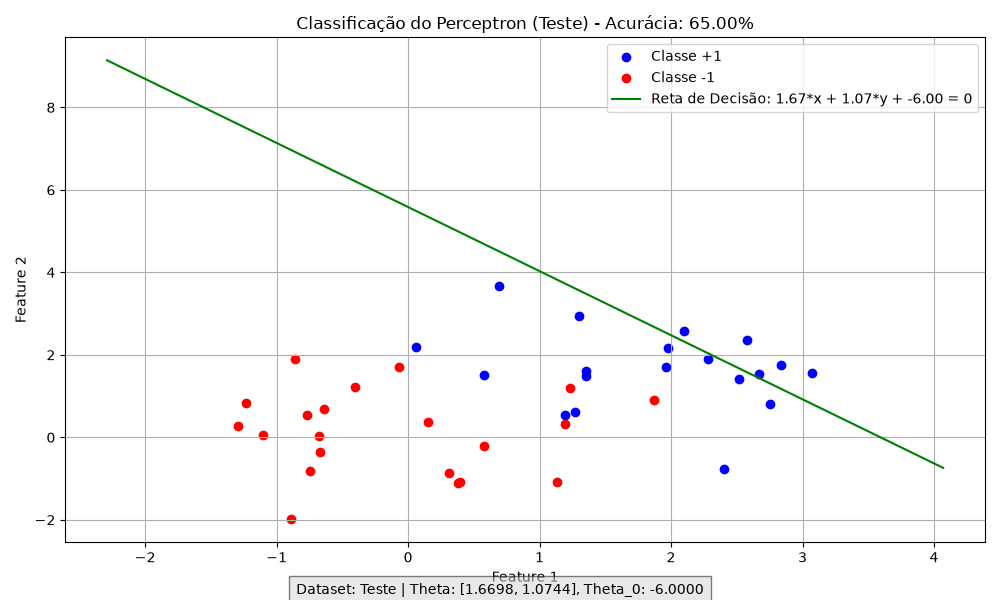
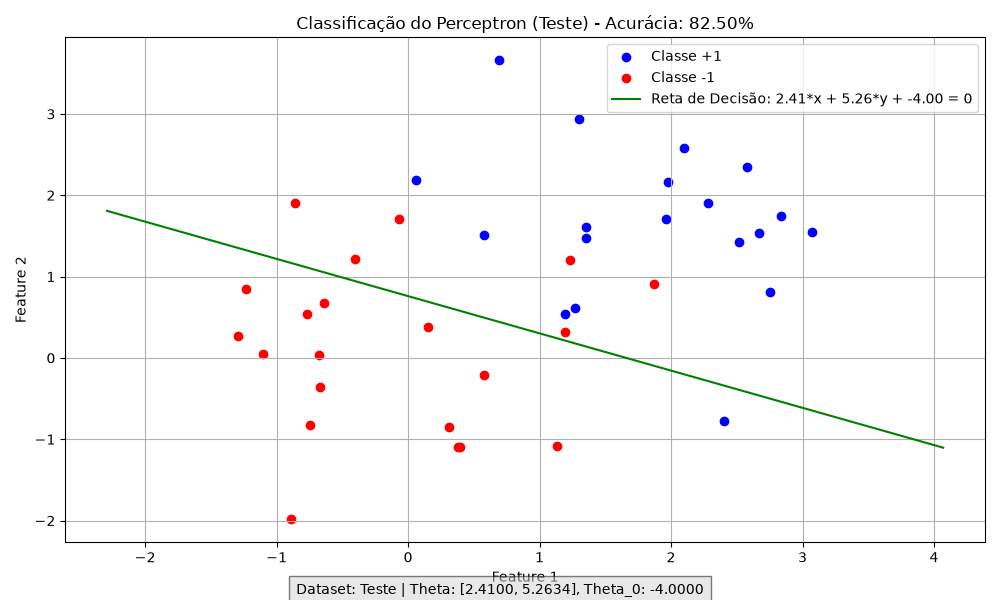
Mais alterações no SGD

diff --git a/MachineLearningCourse/aula02/Comparacao.py b/MachineLearningCourse/aula02/Comparacao.py
@@ -4,39 +4,30 @@ from visualizacao import visualizar_perceptron
 from sklearn.model_selection import train_test_split
 import os
 
-# Carrega o dataset
 dataset, features, labels = carregar_dataset_bolas(os.path.join("dataset", "bolas.csv"))
 
-# Separação entre dados de treino e dados de teste (80% treino, 20% teste)
 X_train, X_test, y_train, y_test = train_test_split(features, labels, test_size=0.2, random_state=42)
 
-# Treinamento do modelo Perceptron com dados de treino
 thetaP, theta_0P = PerceptronBase(X_train, y_train, 20)
 
-# Treinamento do modelo SGD com dados de treino
-thetaSGD, theta_0SGD = SGD(X_train, y_train, 2000000, 0.5, 0.4)
+thetaSGD, theta_0SGD = SGD(X_train, y_train, 50000000, 0.6, 0.4)
 
-# Avaliação dos modelos nos dados de treino
 acuraciaP_treino = Acuracia(thetaP, theta_0P, X_train, y_train)
 acuraciaSGD_treino = Acuracia(thetaSGD, theta_0SGD, X_train, y_train)
 
-# Avaliação dos modelos nos dados de teste
 acuraciaP_teste = Acuracia(thetaP, theta_0P, X_test, y_test)
 acuraciaSGD_teste = Acuracia(thetaSGD, theta_0SGD, X_test, y_test)
 
-# Impressão dos resultados
 print(f"Perceptron - Acurácia no treino: {acuraciaP_treino:.4f}")
 print(f"Perceptron - Acurácia no teste: {acuraciaP_teste:.4f}")
 print(f"SGD - Acurácia no treino: {acuraciaSGD_treino:.4f}")
 print(f"SGD - Acurácia no teste: {acuraciaSGD_teste:.4f}")
 
-# Visualização dos resultados no conjunto de treino
 visualizar_perceptron(X_train, y_train, thetaP, theta_0P, acuraciaP_treino, dataset_type='treino',
                      salvar_arquivo="perceptron_treino.png")
 visualizar_perceptron(X_train, y_train, thetaSGD, theta_0SGD, acuraciaSGD_treino, dataset_type='treino',
                      salvar_arquivo="sgd_treino.png")
 
-# Visualização dos resultados no conjunto de teste
 visualizar_perceptron(X_test, y_test, thetaP, theta_0P, acuraciaP_teste, dataset_type='teste',
                      salvar_arquivo="perceptron_teste.png")
 visualizar_perceptron(X_test, y_test, thetaSGD, theta_0SGD, acuraciaSGD_teste, dataset_type='teste',

diff --git a/MachineLearningCourse/aula02/AnaliseSentimento.py b/MachineLearningCourse/aula02/AnaliseSentimento.py
@@ -9,28 +9,23 @@ import os
 
 texts, labels = carregar_dataset_sentimento(os.path.join("dataset", "reviewes.csv"))
 
-vectorizer = create_bow_vectorizer(texts) #crie uma instância do vectorizer
+vectorizer = create_bow_vectorizer(texts) 
 
-features = GetFeatures(texts, vectorizer) #pegar as features com formato de vetor
+features = GetFeatures(texts, vectorizer) 
 
-# Separação entre dados de treino e dados de teste (80% treino, 20% teste)
 X_train, X_test, y_train, y_test = train_test_split(features, labels, test_size=0.2, random_state=42)
 
-# Treinamento do modelo Perceptron com dados de treino
 thetaP, theta_0P = PerceptronBase(X_train, y_train, 20)
 
-# Treinamento do modelo SGD com dados de treino
-thetaSGD, theta_0SGD = SGD(X_train, y_train, 5000000, 0.6, 0.01)
+thetaSGD, theta_0SGD = SGD(X_train, y_train, 50000000, 0.6, 0.04)
 
-# Avaliação dos modelos nos dados de treino
+
 acuraciaP_treino = Acuracia(thetaP, theta_0P, X_train, y_train)
 acuraciaSGD_treino = Acuracia(thetaSGD, theta_0SGD, X_train, y_train)
 
-# Avaliação dos modelos nos dados de teste
 acuraciaP_teste = Acuracia(thetaP, theta_0P, X_test, y_test)
 acuraciaSGD_teste = Acuracia(thetaSGD, theta_0SGD, X_test, y_test)
 
-# Impressão dos resultados
 print(f"Perceptron - Acurácia no treino: {acuraciaP_treino:.4f}")
 print(f"Perceptron - Acurácia no teste: {acuraciaP_teste:.4f}")
 print(f"SGD - Acurácia no treino: {acuraciaSGD_treino:.4f}")

diff --git a/MachineLearningCourse/aula02/BagOfWords.py b/MachineLearningCourse/aula02/BagOfWords.py
@@ -3,10 +3,6 @@ from sklearn.feature_extraction.text import CountVectorizer
 from nltk.corpus import stopwords
 import nltk
 
-# Descomente a linha abaixo na primeira execução para baixar as stopwords
-#nltk.download('stopwords')
-
-
 def preprocess_text(text):
     """
     Função para pré-processar texto:
